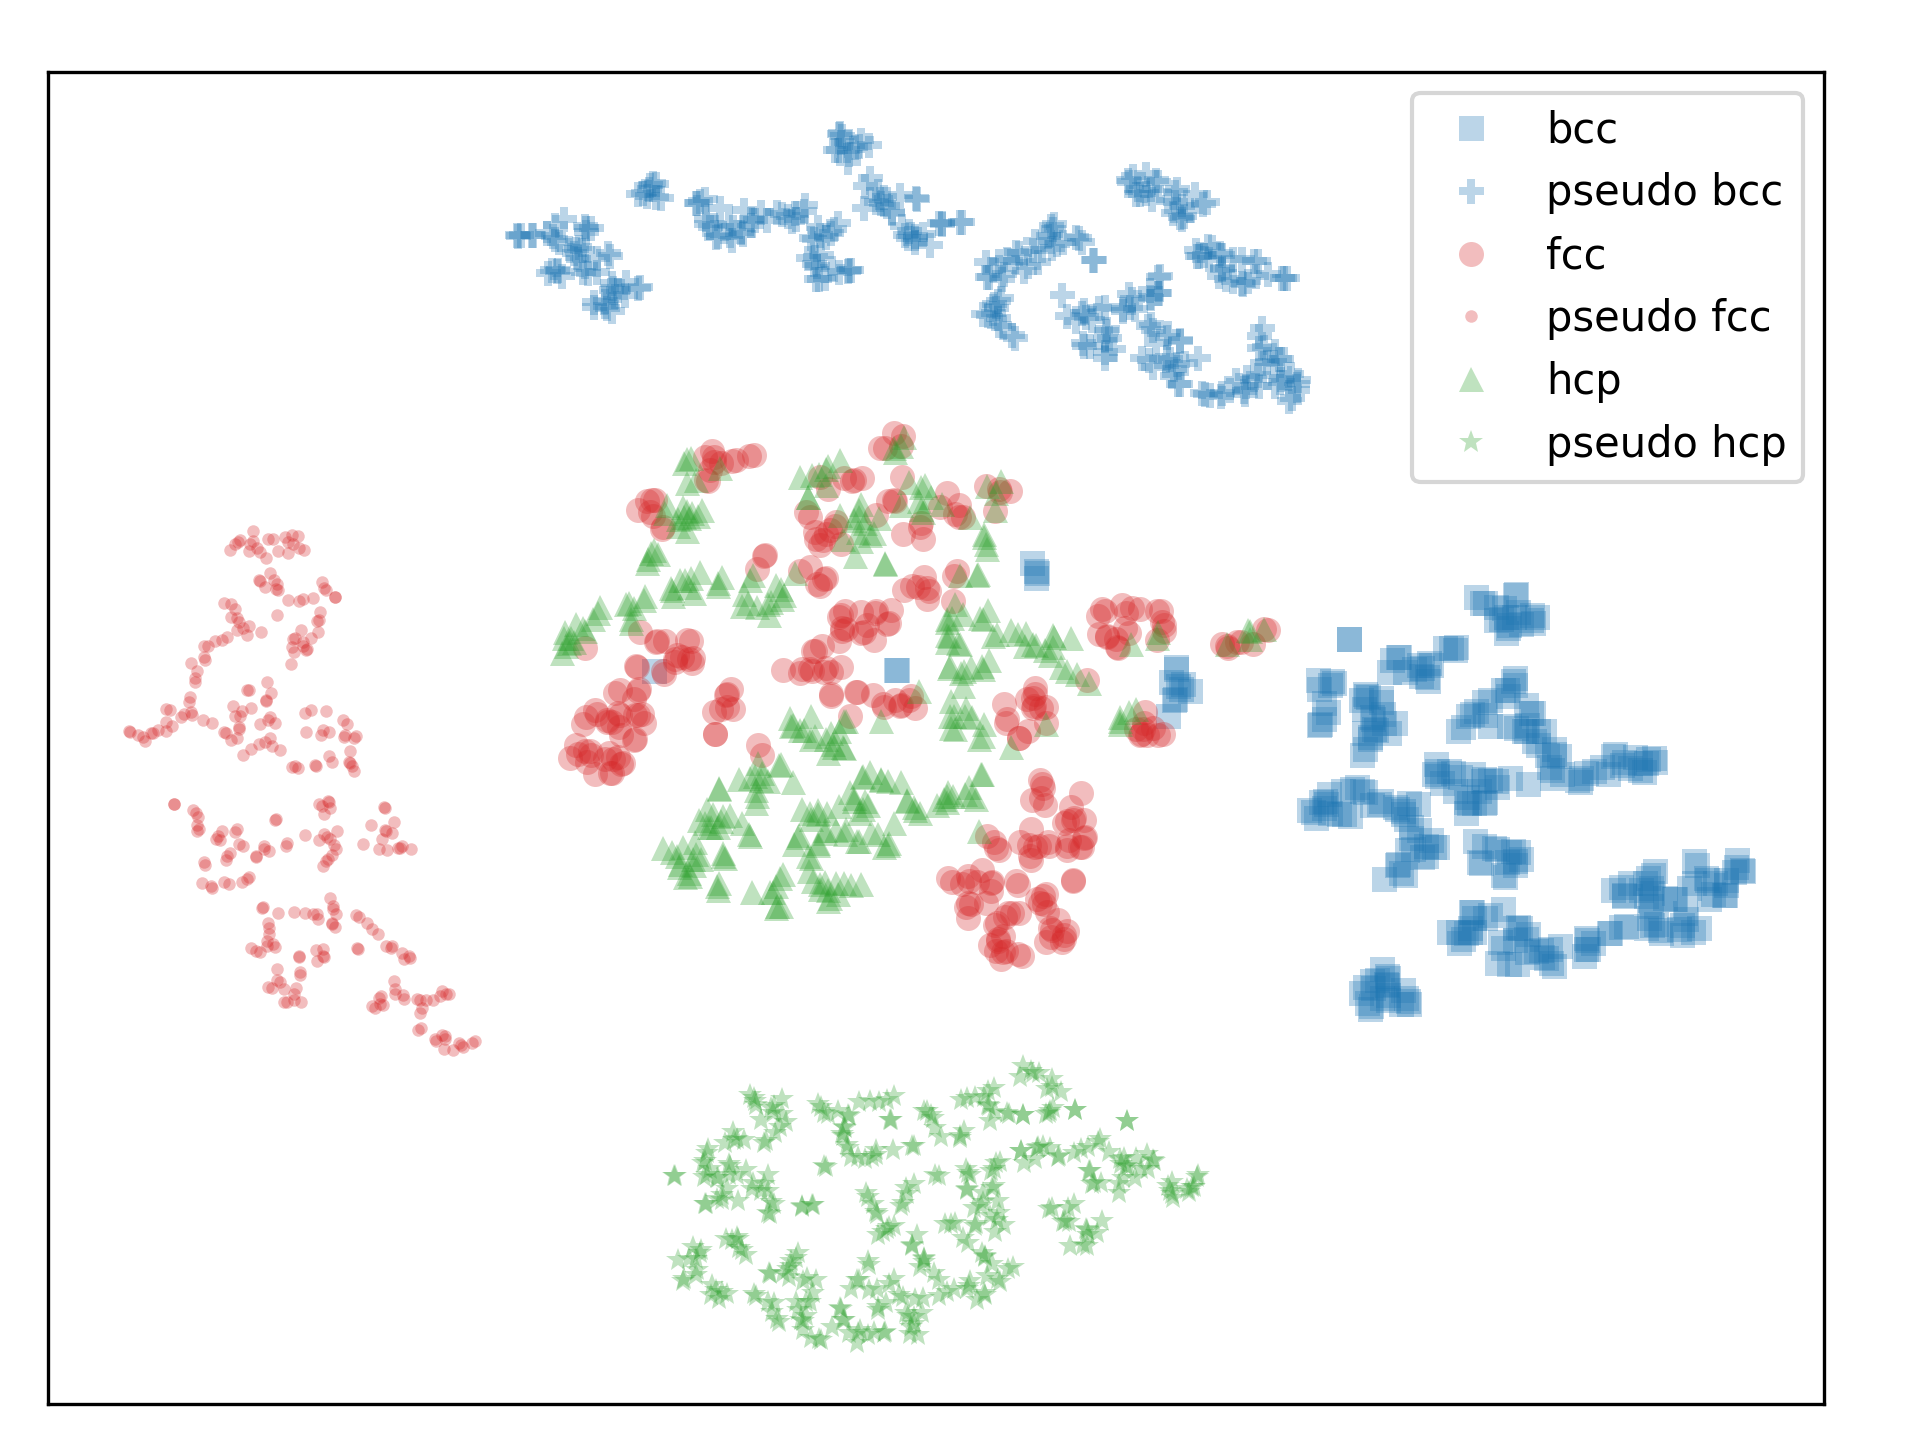
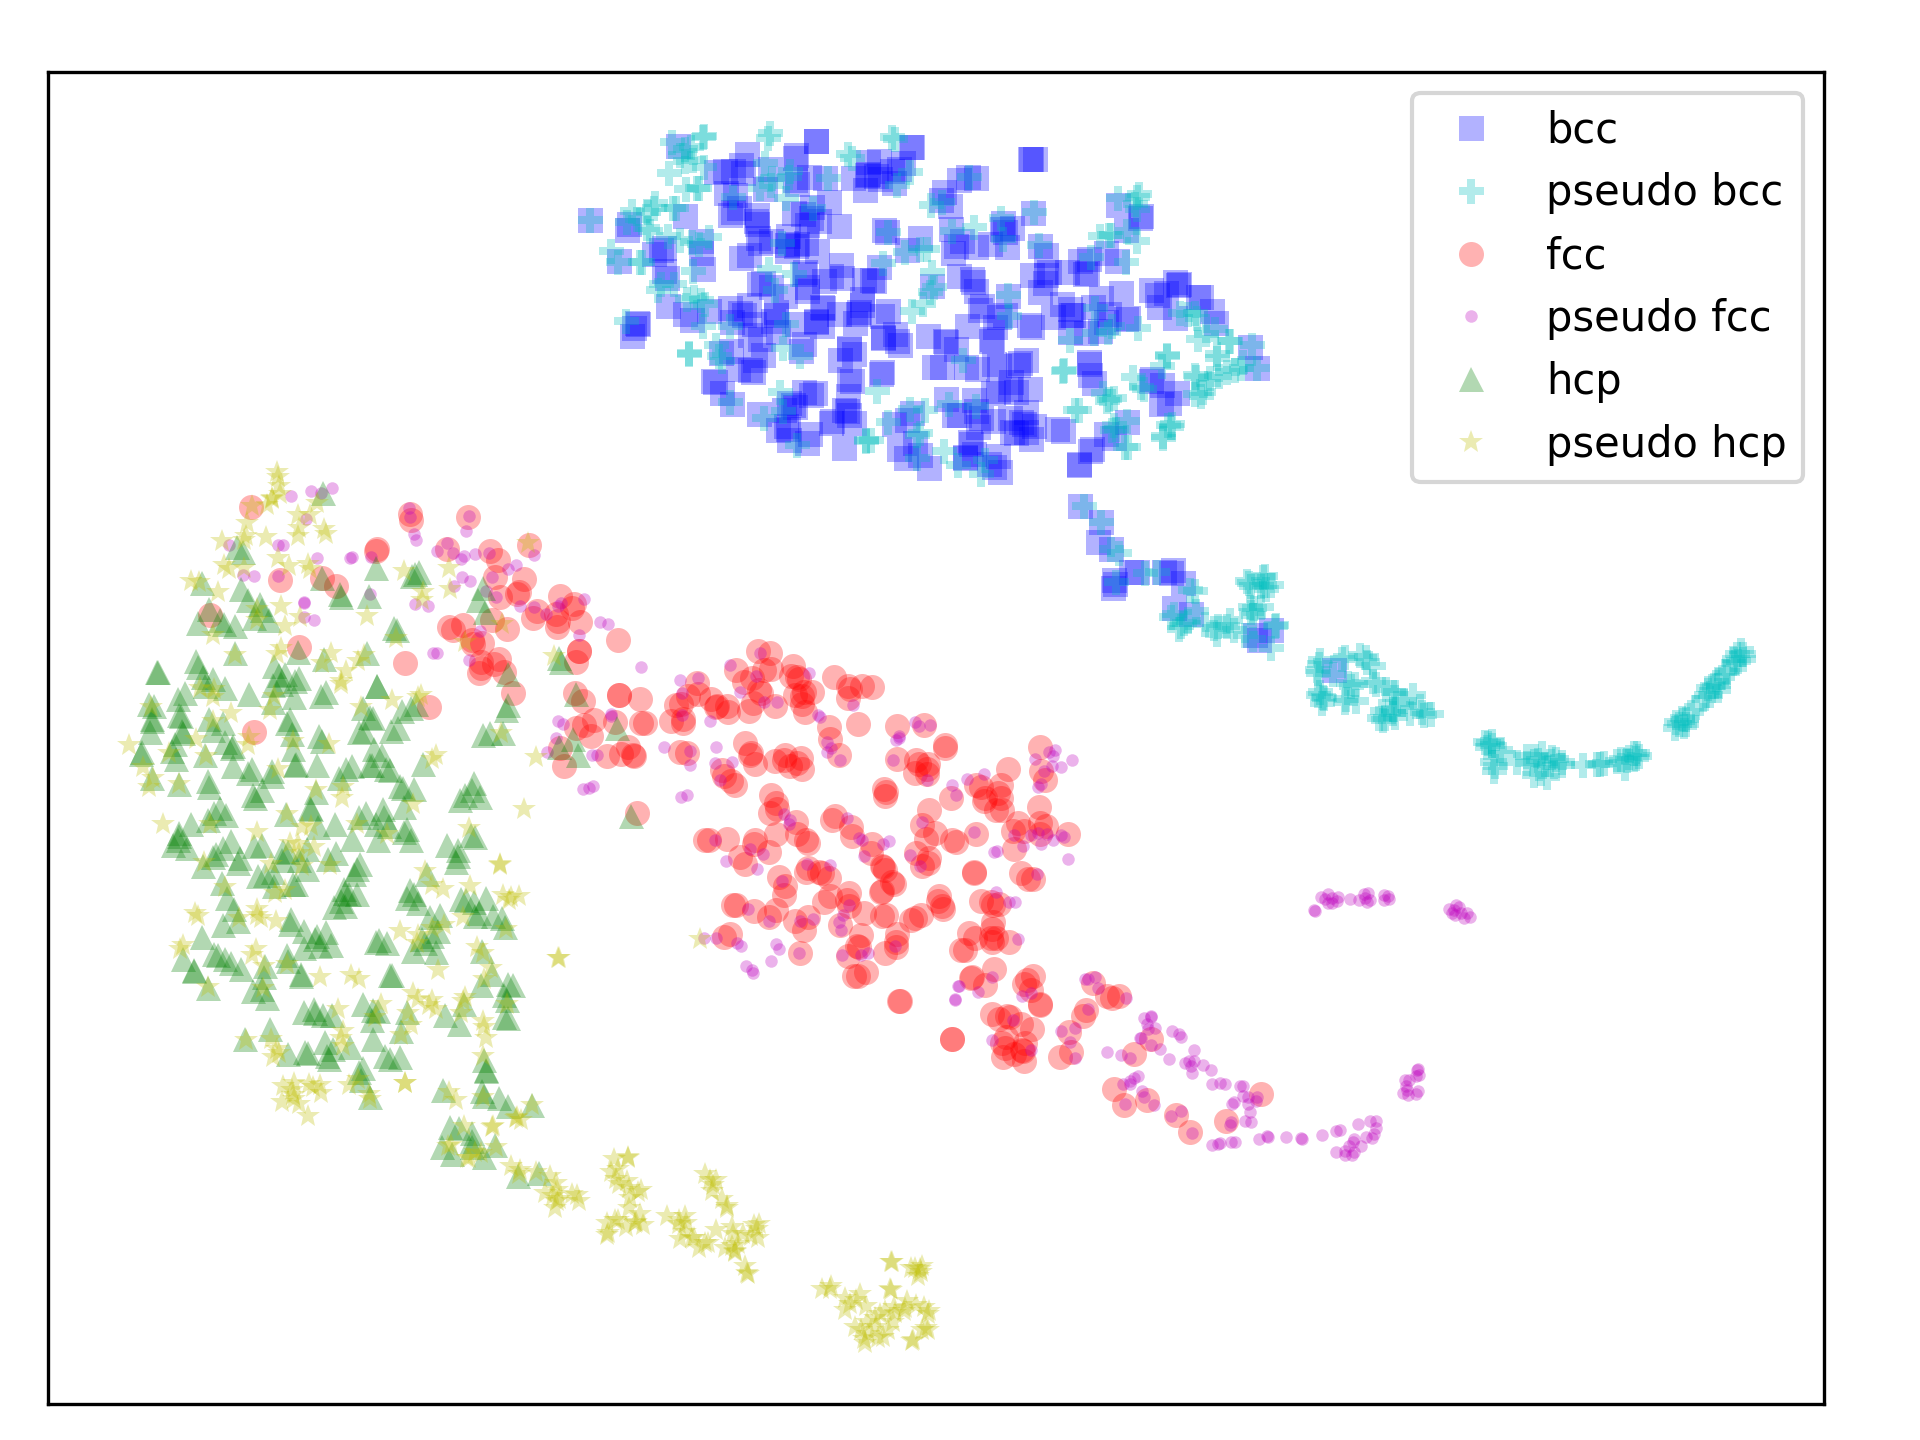
generate/visualize steinhardts in buckets of displacement (the way I did buckets was kinda hacky, though; i should refactor at some point)

Changed region(s): [[0.0625, 0.0625, 0.9375, 0.9375], [0.75, 0.0625, 0.7812, 0.0938]]

diff --git a/01_compute_features/01_compute.py b/01_compute_features/01_compute.py
@@ -1,4 +1,5 @@
 import numpy as np
+from tqdm import tqdm
 from ovito.io import import_file, export_file
 
 from util import calc
@@ -7,16 +8,19 @@ from util import dir_util
 
 
 def compute(latt, pseudo=.06, cart_only=False):
-  steps = [0] if pseudo != None else np.arange(10000,20000+1000,1000) # Step range.
+  # if pseudo, steps will be scaler for random displacement magnitudes
+  # if real, use timesteps from real simulation
+  steps = np.linspace(.01, pseudo, num=10) if pseudo != None else np.arange(10000,20000+1000,1000) # Step range.
   l = np.arange(1,30+1)
   N_stein = len(l)
   # Iterate over steps.
   X = np.zeros((0,N_stein))
-  for step in steps:
-    pipeline = import_file(dir_util.dump_path_for_lattice00(latt, pseudo != None).format(step))
+  for step in tqdm(steps):
+    ts = 0 if pseudo != None else step
+    pipeline = import_file(dir_util.dump_path_for_lattice00(latt, pseudo != None).format(ts))
     data = pipeline.compute()
     if pseudo:
-      data = calc.add_offsets(pipeline, data, position_noise_scaler=pseudo)
+      data = calc.add_offsets(pipeline, data, position_noise_scaler=step)
       export_file(
         data, dir_util.synth_carteasian_path01(latt), "lammps_dump",
         columns = ["Position.X", "Position.Y", "Position.Z"]

diff --git a/util/constants.py b/util/constants.py
@@ -20,9 +20,9 @@ svm_rbf_ovo_path = 'c_svm_rbf_ovo/'
 Lattice= namedtuple('CrystalStruct', 'name, sim_dir, y_label, n_neigh, pt_fmt, ps_pt_fmt')
 
 lattices = [
-  Lattice(name='bcc', sim_dir='02_crystals/', y_label=3, n_neigh=8 , pt_fmt='C0s', ps_pt_fmt='C0P'),#int(CNAModifier.Type.BCC)),
-  Lattice(name='fcc', sim_dir='02_crystals/', y_label=1, n_neigh=12, pt_fmt='C3o', ps_pt_fmt='C3.'),#int(CNAModifier.Type.FCC)),
-  Lattice(name='hcp', sim_dir='02_crystals/', y_label=2, n_neigh=12, pt_fmt='C2^', ps_pt_fmt='C2*'),#int(CNAModifier.Type.HCP)),
+  Lattice(name='bcc', sim_dir='02_crystals/', y_label=3, n_neigh=8 , pt_fmt='bs', ps_pt_fmt='cP'),#int(CNAModifier.Type.BCC)),
+  Lattice(name='fcc', sim_dir='02_crystals/', y_label=1, n_neigh=12, pt_fmt='ro', ps_pt_fmt='m.'),#int(CNAModifier.Type.FCC)),
+  Lattice(name='hcp', sim_dir='02_crystals/', y_label=2, n_neigh=12, pt_fmt='g^', ps_pt_fmt='y*'),#int(CNAModifier.Type.HCP)),
   #Lattice(name='liq', sim_dir='03_liquid/',   cna_mod_type=0, n_neigh=None)#int(CNAModifier.Type.OTHER))
 ]
 
